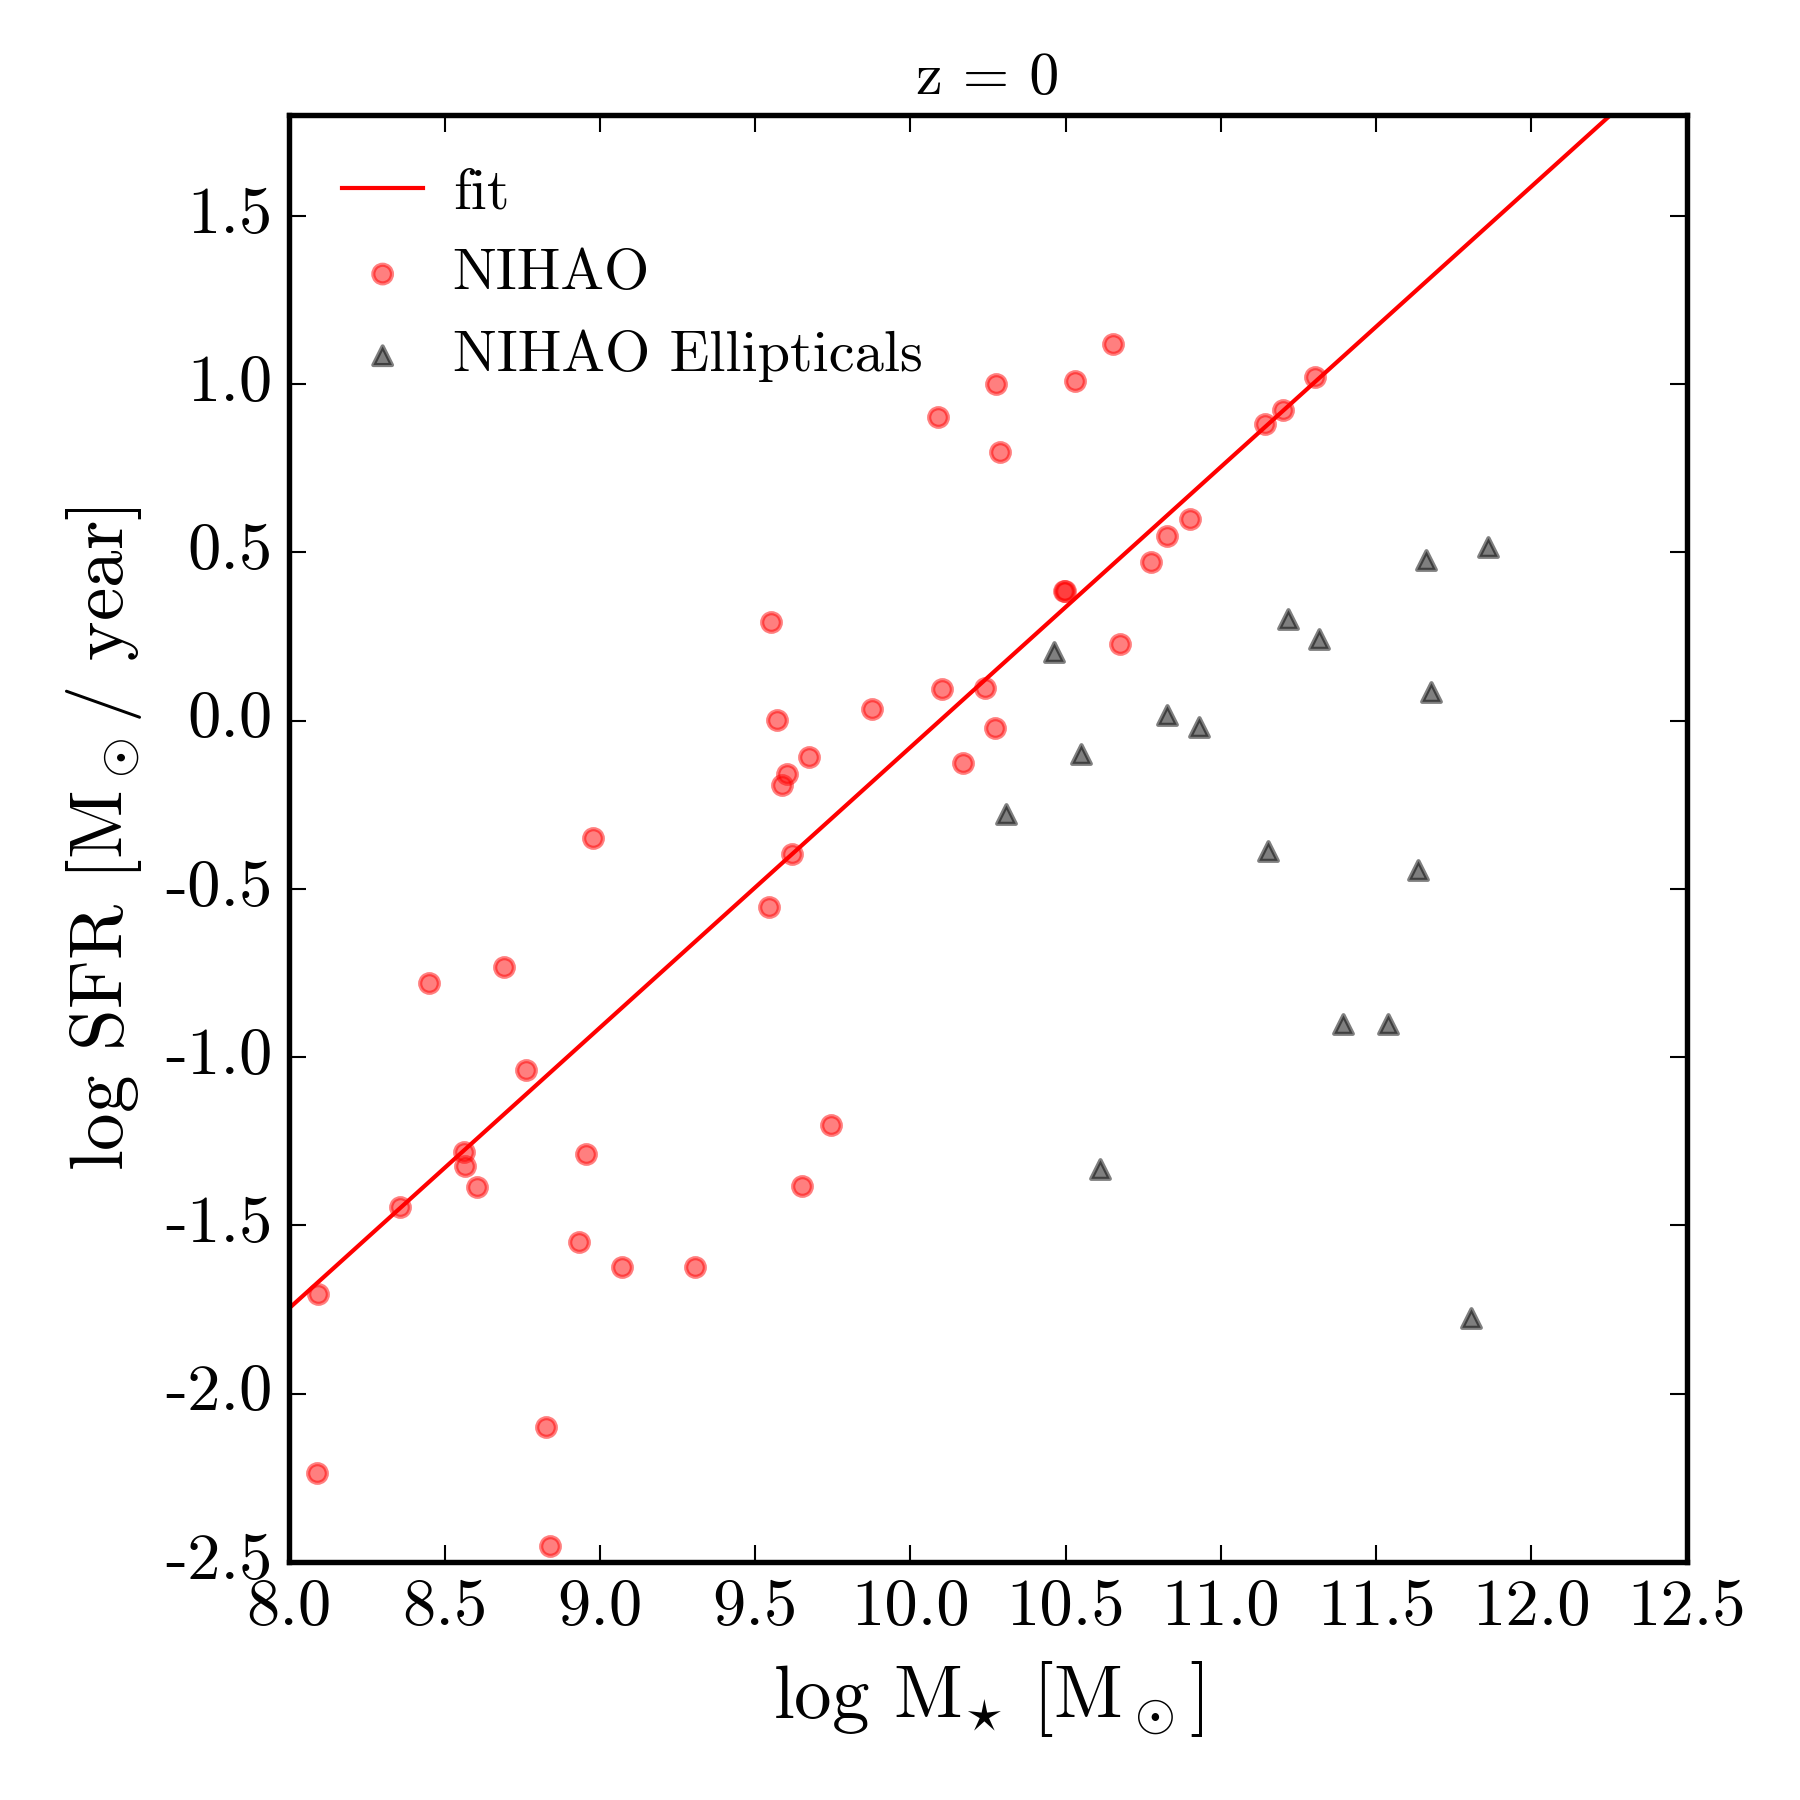
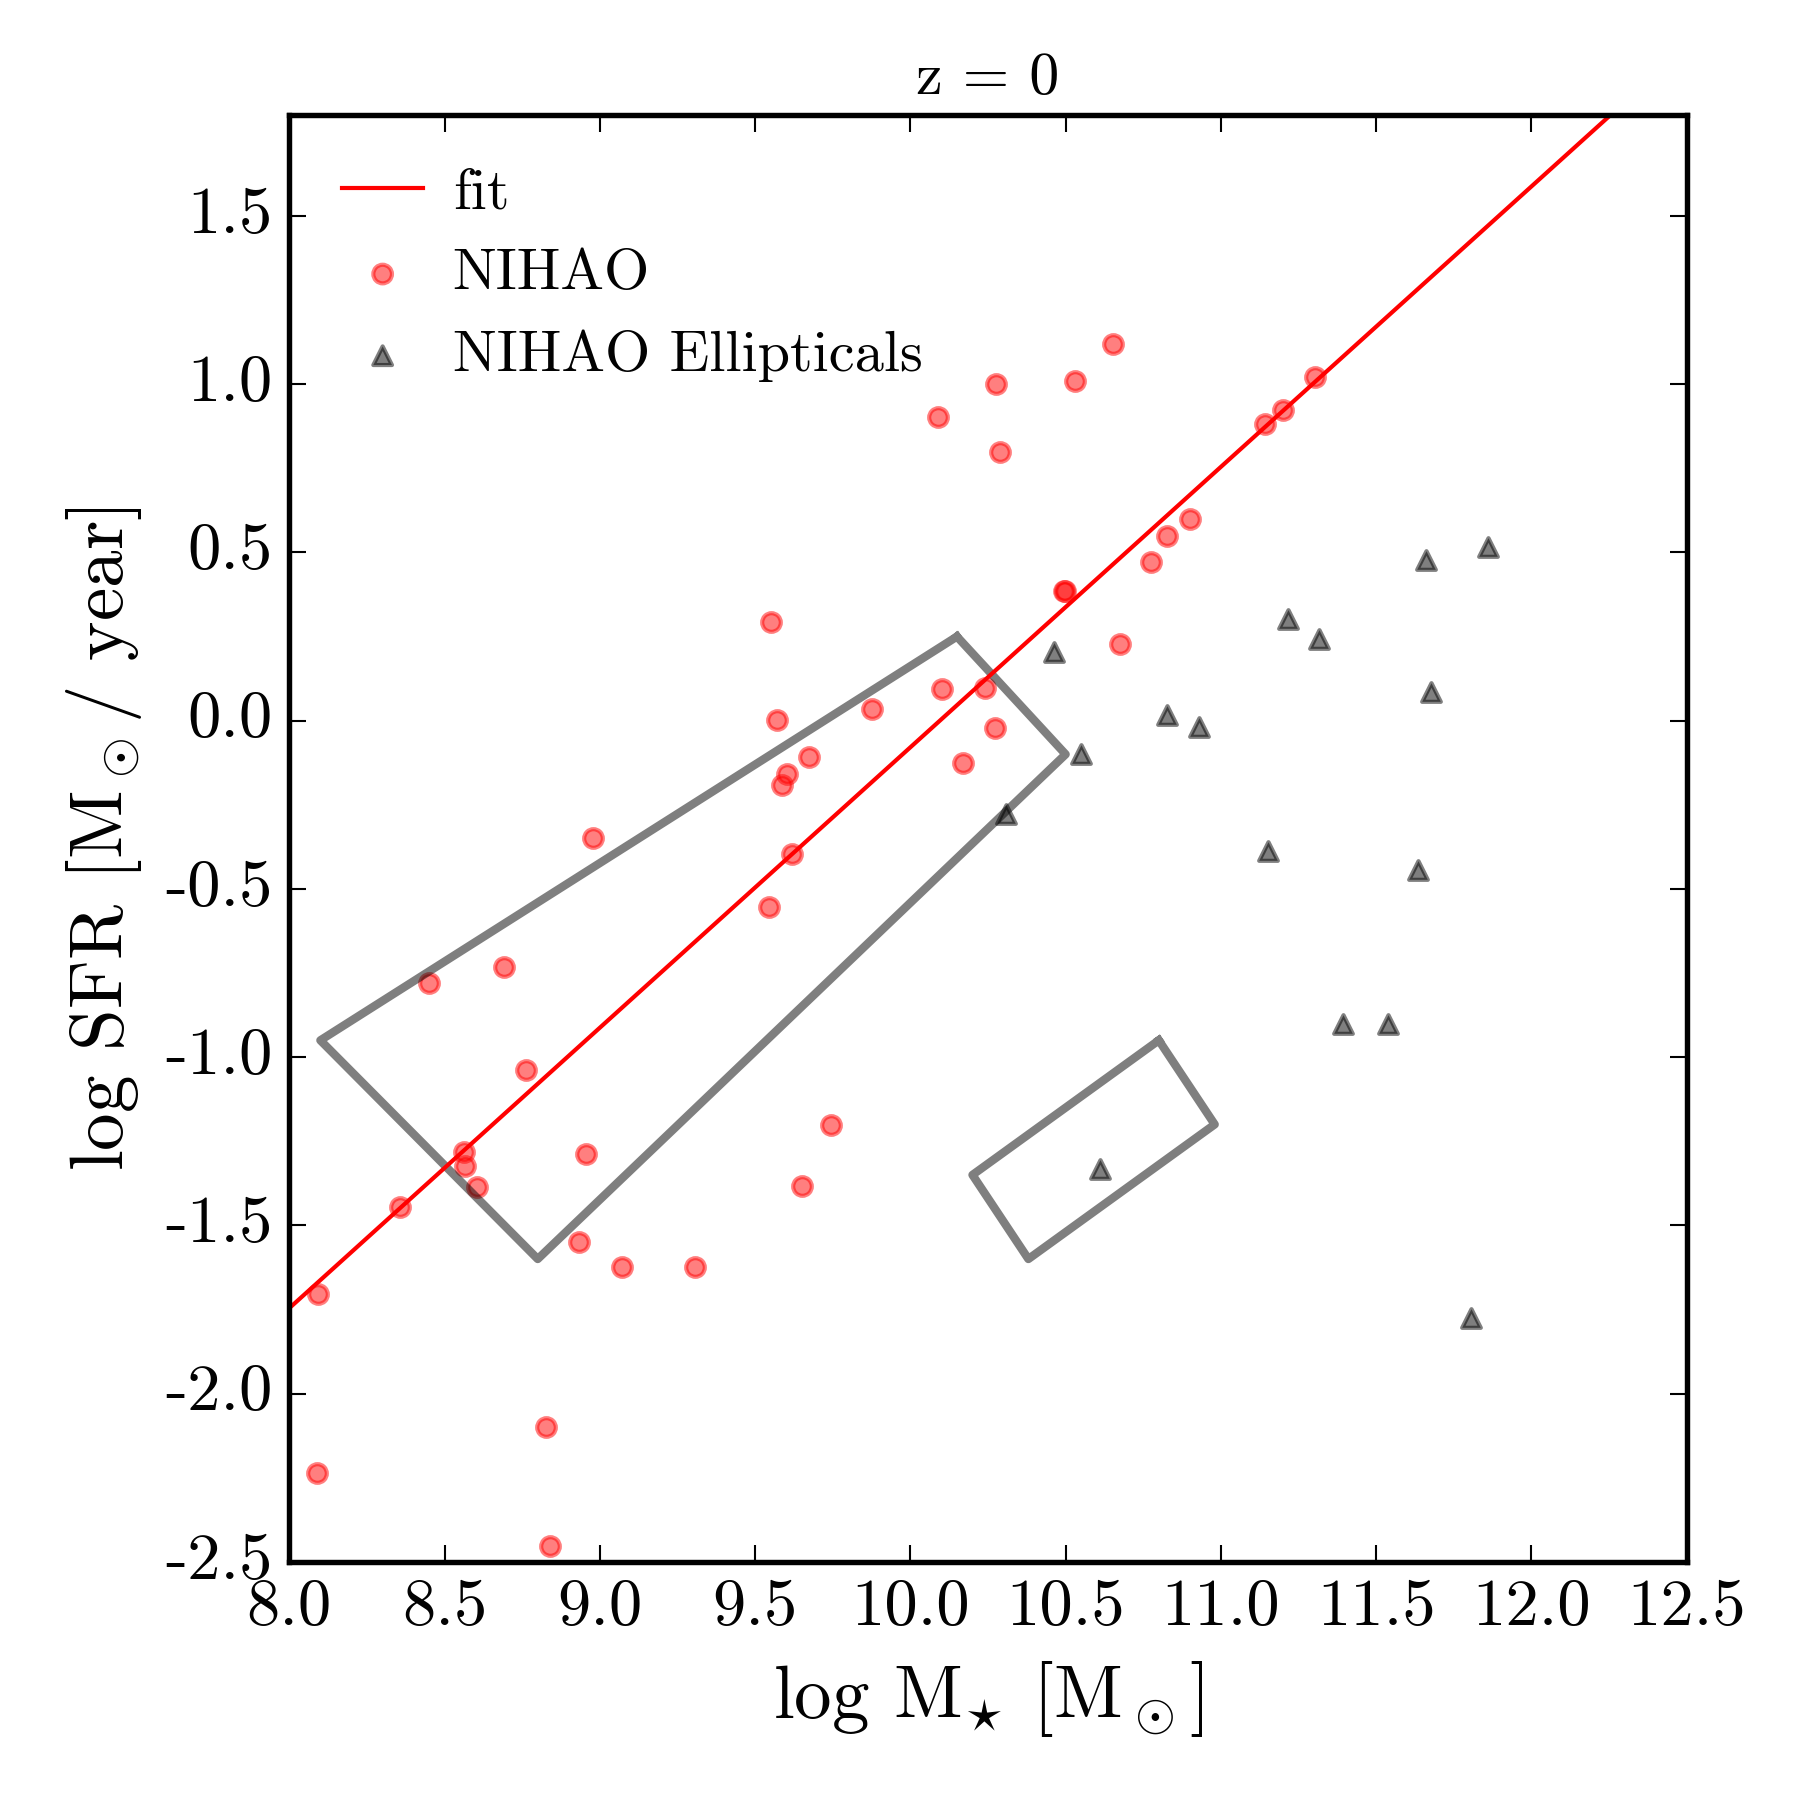
1 fix

diff --git a/1_mssfrLogBefore.py b/1_mssfrLogBefore.py
@@ -94,16 +94,14 @@ plt.plot(x,y, '-', color='r', linewidth=2)
 fig = plt.figure(figsize=(6,6))
 #bottom right
 # tl, tr, br, bl tl
-'''
-x = [10.62, 10.88, 10.375, 10.1, 10.62]
-y = [-0.83, -1.13, -1.6, -1.3, -0.83]
+x = [10.8, 10.98, 10.38, 10.2, 10.8]
+y = [-.95, -1.20, -1.6, -1.35, -.95]
 plt.plot(x,y, '-', color='k', linewidth=2, alpha =0.5)
-#draw high density triangle for blue cloud
-x = [ 10.05, 10.4, 8.7, 8.6, 8.1, 10.05] #3rd to last 10**8.25
-y = [ 0.5, 0.1, -1.5, -1.4, -.95, 0.5] # 10**-1.25
+
+#top left box
+x = [ 10.15, 10.5, 8.8, 8.1, 10.15] #3rd to last 10**8.25
+y = [ 0.25, -0.1, -1.6, -.95, 0.25] # 10**-1.25
 plt.plot(x,y, '-', color='k', linewidth=2, alpha = 0.5)
-#these are redshift 0.02 - 0.085
-'''
 
 
 #plt.scatter(mStarArray, sfrArray, color='b', alpha=0.5)
@@ -132,16 +130,20 @@ plt.show()
 fig = plt.figure(figsize=(6,6))
 #bottom right
 # tl, tr, br, bl tl
-'''
-x = [10.62, 10.88, 10.375, 10.1, 10.62]
-y = [-0.83, -1.13, -1.6, -1.3, -0.83]
+
+x = [10.8, 10.98, 10.38, 10.2, 10.8]
+y = [-.95, -1.20, -1.6, -1.35, -.95]
 plt.plot(x,y, '-', color='k', linewidth=2, alpha =0.5)
-#draw high density triangle for blue cloud
-x = [ 10.05, 10.4, 8.7, 8.6, 8.1, 10.05] #3rd to last 10**8.25
-y = [ 0.5, 0.1, -1.5, -1.4, -.95, 0.5] # 10**-1.25
+
+#top left box
+x = [ 10.15, 10.5, 8.8, 8.1, 10.15] #3rd to last 10**8.25
+y = [ 0.25, -0.1, -1.6, -.95, 0.25] # 10**-1.25
 plt.plot(x,y, '-', color='k', linewidth=2, alpha = 0.5)
-#these are redshift 0.02 - 0.085
-'''
+
+
+
+
+
 #plt.scatter(mStarArray, sfrArray, color='b', alpha=0.5)
 plt.scatter(logmstar, logsfr, color='r', alpha=0.5, label="NIHAO")
 
